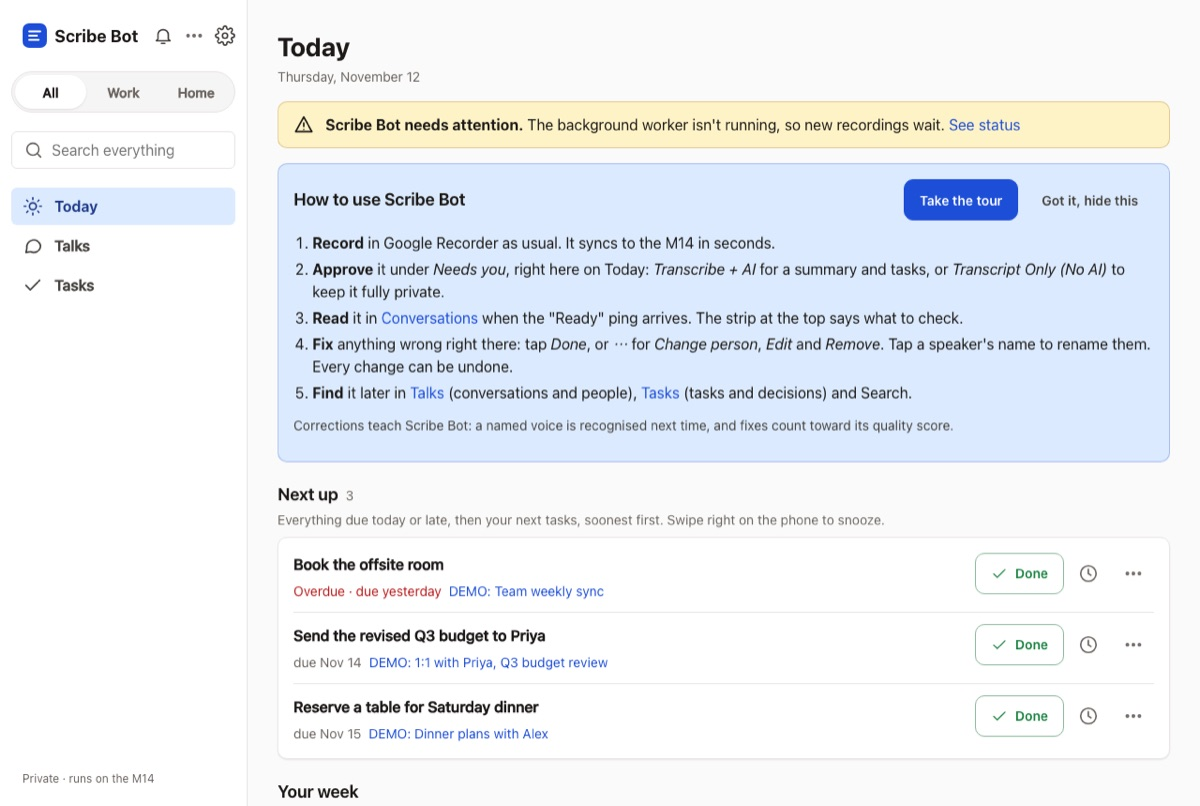
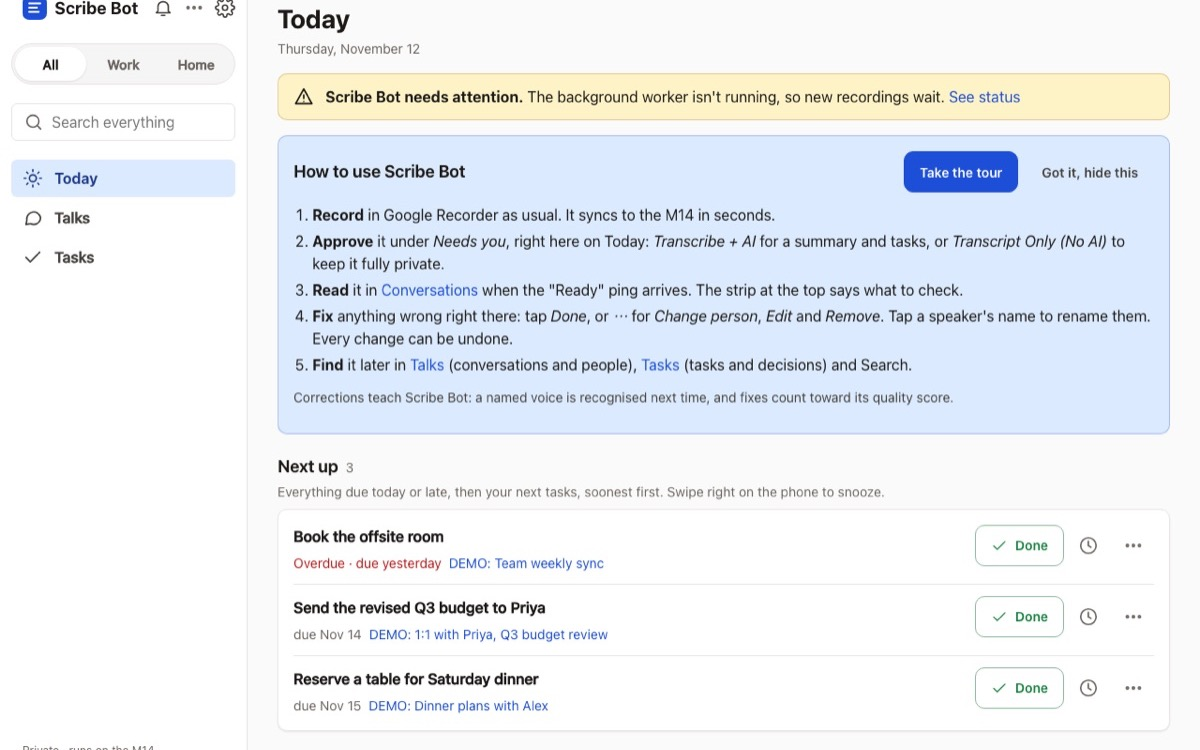
OnBoard uses the big captioned screenshots; Scribe Bot shot matches the others; sturdier panel fit
- OnBoard panel switches to the large screenshot layout with a caption per screen
- Scribe Bot screenshot cropped to the same 16:10 shape as the other cards
- Panels re-fit when a screenshot finishes loading, and move role/team/links under the
  screenshot when the text column is the tall one

Claude-Session: https://claude.ai/code/session_01EretfVcRtiRkXgbcPqwNAm

diff --git a/app/content.ts b/app/content.ts
@@ -42,7 +42,6 @@ export type Project = {
 };
 
 const desk = (src: string, alt: string, title: string, caption: string, height = 1500): Shot => ({ src, alt, width: 2400, height, title, caption });
-const phone = (src: string, alt: string, title: string, caption: string): Shot => ({ src, alt, width: 780, height: 1688, title, caption });
 
 export const projects: Project[] = [
   {
@@ -55,16 +54,10 @@ export const projects: Project[] = [
     summary:
       "A mobile app for missionaries and small or understaffed ministries: capture moments from the field and turn them into prayer requests and newsletters in their own words.",
     shots: [
-      { src: "/projects/onboard.jpg", alt: "OnBoard worker home screen with recent moments and prayer requests (sample data)", width: 1200, height: 750 },
-      { src: "/projects/onboard-letter.jpg", alt: "OnBoard letter editor with related notes from the notebook alongside (sample data)", width: 1200, height: 750 },
-      { src: "/projects/onboard-privacy.jpg", alt: "OnBoard privacy check flagging a student's full name before a letter is sent (sample data)", width: 1200, height: 750 },
-      { src: "/projects/onboard-partner.jpg", alt: "OnBoard partner home with the latest update and today's prayer requests (sample data)", width: 1200, height: 750 },
-    ],
-    phones: [
-      phone("/projects/onboard-phone-home.jpg", "OnBoard home on a phone: quick capture, prayers and insights (sample data)", "Home", "Capture a moment in seconds by typing or talking. AI tags it and suggests who to check in on."),
-      phone("/projects/onboard-phone-write.jpg", "OnBoard letter editor on a phone (sample data)", "Letter editor", "AI drafts prayer requests and newsletters only from your own notes. No added facts, quotes, or verses."),
-      phone("/projects/onboard-phone-privacy.jpg", "OnBoard privacy check flagging a full name on a phone (sample data)", "Privacy check", "Flags full names and locations and blurs faces in photos. Nothing is sent until you approve each one."),
-      phone("/projects/onboard-phone-partner.jpg", "OnBoard supporter app home on a phone (sample data)", "Supporter app", "Supporters see the latest update and today's prayer requests, pray along, and reply."),
+      { src: "/projects/onboard.jpg", alt: "OnBoard worker home screen with recent moments and prayer requests (sample data)", width: 1200, height: 750, title: "Home", caption: "Capture a moment in seconds, see today's prayers, and get AI suggestions for who to check in on." },
+      { src: "/projects/onboard-letter.jpg", alt: "OnBoard letter editor with related notes from the notebook alongside (sample data)", width: 1200, height: 750, title: "Letter editor", caption: "AI drafts prayer requests and newsletters only from your own notes, shown alongside. No added facts or verses." },
+      { src: "/projects/onboard-privacy.jpg", alt: "OnBoard privacy check flagging a student's full name before a letter is sent (sample data)", width: 1200, height: 750, title: "Privacy check", caption: "Flags a student's full name and suggests \"A.\" instead. Nothing is sent until you approve each flag." },
+      { src: "/projects/onboard-partner.jpg", alt: "OnBoard partner home with the latest update and today's prayer requests (sample data)", width: 1200, height: 750, title: "Supporter app", caption: "Supporters see the latest update and today's prayer requests, pray along, and reply." },
     ],
     metric: { value: "5 of 7", label: "testers said sending an update felt faster than what they do now" },
     role: "Led the team, contributed ideas, built the prototype, and helped with the initial pitch.",
@@ -111,7 +104,7 @@ export const projects: Project[] = [
     oneLine: "A private app that turns recorded conversations into searchable transcripts, tasks, and decisions.",
     summary: "A private, self-hosted app that turns recorded conversations into searchable transcripts, tasks, decisions, and people notes.",
     shots: [
-      { src: "/projects/scribe-bot.jpg", alt: "Scribe Bot's Today page in Demo mode with sample meetings", width: 1200, height: 806, title: "Today page (demo data)", caption: "Conversations become transcripts, tasks, and decisions, with speech recognition running locally on a home server." },
+      { src: "/projects/scribe-bot.jpg", alt: "Scribe Bot's Today page in Demo mode with sample meetings", width: 1200, height: 750, title: "Today page (demo data)", caption: "Conversations become transcripts, tasks, and decisions, with speech recognition running locally on a home server." },
     ],
     tools: ["Python", "FastAPI", "sherpa-onnx", "Claude"],
     next: ["A public demo with sample data."],

diff --git a/app/page.tsx b/app/page.tsx
@@ -199,9 +199,11 @@ function ProjectPanel({ p }: { p: Project }) {
         {p.award && <p className="font-medium text-accent">{p.award}</p>}
       </div>
 
-      <div className={`mt-5 grid gap-x-8 gap-y-6 ${visual ? "lg:grid-cols-[minmax(0,7fr)_minmax(0,3fr)]" : "max-w-3xl"}`}>
+      <div className={`mt-5 grid gap-x-8 gap-y-5 ${visual ? "lg:grid-cols-[minmax(0,7fr)_minmax(0,3fr)] lg:grid-rows-[auto_1fr] lg:content-start" : "max-w-3xl"}`}>
         {p.phones ? (
-          <Features shots={p.phones} />
+          <div className="lg:col-start-1 lg:row-span-2 lg:row-start-1 lg:group-data-[meta=left]/sheet:row-span-1">
+            <Features shots={p.phones} />
+          </div>
         ) : (
           first && (
             <Gallery
@@ -209,15 +211,18 @@ function ProjectPanel({ p }: { p: Project }) {
               sizes="(min-width: 1024px) 52rem, 100vw"
               captions
               // Desktop: the panel sets --fit-h so everything fits on screen (see ClickableCard's fit()).
-              className="lg:max-w-[var(--fit-w)]"
+              className="lg:col-start-1 lg:row-span-2 lg:row-start-1 lg:max-w-[var(--fit-w)] lg:group-data-[meta=left]/sheet:row-span-1"
               style={{ "--fit-w": `calc(var(--fit-h, 60dvh) * ${first.width / first.height})` } as React.CSSProperties}
             />
           )
         )}
-        <div className="min-w-0">
+        <div className={`min-w-0 ${visual ? "lg:col-start-2 lg:row-start-1 lg:group-data-[meta=left]/sheet:row-span-2" : ""}`}>
           {p.summary && <p className={visual ? "leading-relaxed" : "text-lg leading-relaxed"}>{p.summary}</p>}
           {p.details && <Bullets items={p.details} />}
           <Metric p={p} />
+        </div>
+        {/* Role, team, tools and links: under the summary, or under the screenshot when the text column runs long (fit()) */}
+        <div className={`min-w-0 [&>*:first-child]:mt-0 ${visual ? "lg:col-start-2 lg:row-start-2 lg:group-data-[meta=left]/sheet:col-start-1" : ""}`}>
           <RoleTeam p={p} />
           {p.tools && <BuiltWith list={p.tools} />}
           {p.next && <InProgress items={p.next} />}

diff --git a/app/clickable-card.tsx b/app/clickable-card.tsx
@@ -36,16 +36,27 @@ export function ClickableCard({
     const over = () => el.scrollHeight > el.clientHeight + 1;
     const setH = (h: number) => el.style.setProperty("--fit-h", `${h}px`);
     const keep = Math.max(260, Math.round(window.innerHeight * 0.42)); // don't shrink the screenshot below this at first
-    let h = Math.round(window.innerHeight * 0.62);
-    setH(h);
-    while (over() && h > keep) setH((h -= 12));
+    // Shrink the screenshot until the panel fits (or hits `keep`), with role/team/links beside it ("right")
+    // or under it ("left"); keep whichever fits with the bigger screenshot.
+    const shrink = (meta: "right" | "left") => {
+      el.dataset.meta = meta;
+      let h = Math.round(window.innerHeight * 0.62);
+      setH(h);
+      while (over() && h > keep) setH((h -= 12));
+      return { h, fits: !over(), extra: el.scrollHeight - el.clientHeight };
+    };
+    const right = shrink("right");
+    const left = shrink("left");
+    const useLeft =
+      left.fits && right.fits ? left.h > right.h : left.fits ? true : right.fits ? false : left.extra < right.extra;
+    shrink(useLeft ? "left" : "right");
+    let h = parseInt(el.style.getPropertyValue("--fit-h"));
     // Short screens: scale the whole panel down a little, then shrink the screenshot further if still needed.
     let z = 1;
     while (over() && z > 0.8) {
       z -= 0.025;
       el.style.zoom = String(z);
     }
-    h = parseInt(el.style.getPropertyValue("--fit-h"));
     while (over() && h > 160) setH((h -= 12));
   };
 
@@ -136,6 +147,8 @@ export function ClickableCard({
             <div
               ref={sheet}
               tabIndex={-1}
+              // Re-fit when a screenshot finishes loading (or a new one is shown), since sizes can change then.
+              onLoadCapture={() => dialog.current?.open && fit()}
               style={{ transformOrigin: "top left", outline: "none" }}
               className="group/sheet relative max-h-full w-full max-w-[1200px] overflow-auto overscroll-contain rounded-2xl border border-line bg-navy p-5 shadow-2xl sm:p-7"
             >
